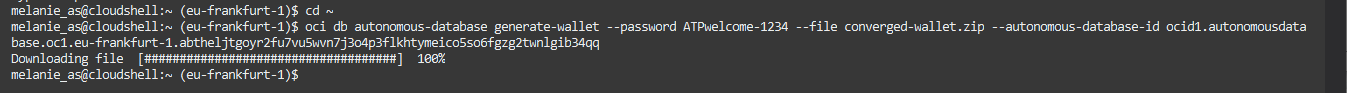
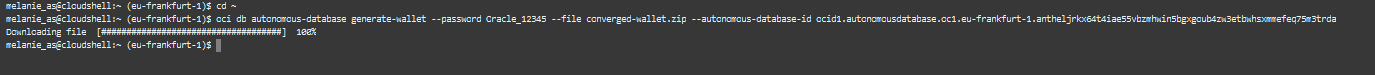
Updated SPATIAL to use new credential and bucket

Changed region(s): [[0.0, 0.0, 1.0, 1.0], [0.0, 0.72, 0.2183, 0.88]]

diff --git a/SPATIAL/spatial.md b/SPATIAL/spatial.md
@@ -33,38 +33,33 @@ We will be using three tables – CUSTOMERS, WAREHOUSES and WAREHOUSES\_DTP.
 
 Each table stores location using Oracle's native spatial data type, SDO\_GEOMETRY. A location can be stored as a point in an SDO\_GEOMETRY column of a table. The customer's location is associated with longitude and latitude values on the Earth's surface—for example, -63.13631, 52.485426.
 
-## STEP 1: Prepare your environment
+**Estimated Lab Time:** 30 minutes
 
-If you have  downloaded the wallet for your database in a previous lab, skip to **Extract the wallet** If you do not have a wallet, follow this process.
+## **STEP 1**: Prepare your environment
+
+If you have  downloaded the wallet for your database into your cloud shell  in a previous lab, skip to **Extract the wallet** If you do not have a wallet, follow this process.
 
 ### Download the Wallet
 
-Navigate to the *Autonomous Database Details* page for your database. 
+1. Navigate to the *Autonomous Database Details* page for your database. 
 
-Select the **Copy** next to the OCID for your database.
-
-![](../common-images/adb-get-ocid.png)
-
-Start Cloud Shell by selecting the icon in the menu bar.
-
-![](../common-images/start-cloud-shell.png)
-
-After a few moments, the cloud shell will open at the bottom of your web browser window.
-
-Use your autonomous\_database\_ocid to create the Oracle Wallet. You will be setting the wallet password to the same value as the ADB admin password for ease of use. This is not a recommended practice and just used for the purposes of this lab. You will give the downloaded file the name 'converged-wallet.zip'.
-
-
+2. Select the **Copy** next to the OCID for your database.
+   ![](../common-images/adb-get-ocid.png)
+3. Start Cloud Shell by selecting the icon in the menu bar.
+   ![](../common-images/start-cloud-shell.png)
+   After a few moments, the cloud shell will open at the bottom of your web browser window.
+4. Replace YOUR-OCID-HERE in the command below with the OCID for your database. You will be setting the wallet password to the same value as the ADB admin password for ease of use. This is not a recommended practice and just used for the purposes of this lab. The wallet will be created with the name `converged-wallet.zip`.
 
 ````
 cd ~
-oci db autonomous-database generate-wallet --password <your admin password> --file converged-wallet.zip --autonomous-database-id <your ocid>
+oci db autonomous-database generate-wallet --password Oracle_12345 --file converged-wallet.zip --autonomous-database-id YOUR-OCID-HERE
 ````
 
-  ![](../common-images/generate-wallet.png)
+![](../common-images/generate-wallet.png)
 
-The wallet file will be downloaded to your cloud shell file system under your home directory.
+	The wallet file will be downloaded to your cloud shell file system under your home directory.
 
-Enter the list command in your cloudshell below to verify the *converged-wallet.zip* was created
+5. Enter the ls (list) command in your cloudshell below to verify the *converged-wallet.zip* was created
 
 ````
 ls
@@ -74,17 +69,18 @@ ls
 
 ### Extract the wallet
 
-Unzip the contents of the wallet file into a directory that  you will call *wallet*. The directory can be created automatically by  the unzip command.
+1. Use the unzip command below to unzip the contents of the wallet file into a directory that  you will call *wallet*. The directory will  be created automatically by  the unzip command.
 
 ````
+cd ~
 unzip -d wallet converged-wallet.zip
 ````
 
 ![](../common-images/unzip-wallet.png)
 
-Next you need to modify the *sqlnet.ora* file located in the wallet directory to include the location of the wallet contents (.e.g the directory holding your tnsnames.ora)
+2. Next you need to modify the *sqlnet.ora* file located in the wallet directory to include the location of the wallet contents (.e.g the directory holding your tnsnames.ora)
 
-If you are unsure of the full directory name and path,  you can cut-and-paste this from the output of the *pwd* operation.
+   If you are unsure of the full directory name and path,  you can cut-and-paste this from the output of the *pwd* operation.
 
 ````
 cd ~/wallet
@@ -93,41 +89,39 @@ pwd
 
 ![](../common-images/wallet-pwd.png)
 
-Edit the contents of the *sqlnet.ora* file
+3. Edit the contents of the *sqlnet.ora* file
 
 ````
 vi sqlnet.ora
 ````
 
-Change the first line in the sqlnet.ora file to use your directory name as it appears in your Oracle Cloud Shell prompt:
+	Change the first line in the sqlnet.ora file to use your directory name as it appears in your Oracle Cloud Shell prompt:
 
 *OLD:* `WALLET_LOCATION = (SOURCE = (METHOD = file) (METHOD_DATA = (DIRECTORY="?/network/admin")))`
 
 *NEW:* `WALLET_LOCATION = (SOURCE = (METHOD = file) (METHOD_DATA = (DIRECTORY="/home/<YOUR USERNAME HERE>/wallet")))`
 
-So in the screenshot example, my wallet directory is `/home/melanie_as/wallet` so my entry is `WALLET_LOCATION = (SOURCE = (METHOD = file) (METHOD_DATA = (DIRECTORY="/home/melanie_as/wallet")))` Use your information to complete this change.
+	So in the screenshot example, my wallet directory is `/home/melanie_as/wallet` so my entry is `WALLET_LOCATION = (SOURCE = (METHOD = file) (METHOD_DATA = (DIRECTORY="/home/melanie_as/wallet")))` Use your information to complete this change.
 
 
 
 ![](../common-images/sqlnet-wallet.png)
 
-Change directory back to your home Directory
+4. Change directory back to your home Directory
 
 ````
 cd ..
 ````
 
-## STEP 2: Load the data
+## **STEP 2**: Load the data
 
 In this step you will load the data for the lab using Oracle Data Pump. 
 
 ### Storing your object store authentication token credentials in the database
 
-To access data in the Object Storage you must enable your database user to authenticate itself with the Object Storage using your object store account and authentication token.
+To access data in the Object Storage you must enable your database user to authenticate itself with the Object Storage using your object store account and authentication token. You do this by creating a private CREDENTIAL object for your user that stores this information encrypted in your Autonomous Database instance. This encrypted connection information is only usable by your user schema. 
 
-You do this by creating a private CREDENTIAL object for your user that stores this information encrypted in your Autonomous Database instance. This encrypted connection information is only usable by your user schema. 
-
-In cloud shell, set the TNS_ADMIN environment variable to your wallet directory. The tilde `~` symbol is a shortcut for your home directory path. 
+1. In cloud shell, set the TNS_ADMIN environment variable to your wallet directory. The tilde `~` symbol is a shortcut for your home directory path. 
 
 ```
 export TNS_ADMIN=~/wallet
@@ -135,33 +129,21 @@ export TNS_ADMIN=~/wallet
 
 ![](../common-images/set-tns-admin.png)
 
-Connect using SQL*Plus command line from your cloud shell prompt
+2. Connect using SQL*Plus command line from your cloud shell prompt, using your admin password instead of YOUR-ADMIN-PASSWORD and your database name instead of YOUR-DB-NAME
 
-```
-sqlplus admin/<your admin password>@<your dbname>_high
-```
+   ```
+   sqlplus admin/YOUR-ADMIN-PASSWORD@YOUR-DB-NAME_high
+   ```
 
+   ![](../common-images/sqlplus-admin.png)
 
+   
 
-Now execute the script to create a credential. Copy and paste the contents of the  script file  [atp_create_credential.sql](../common-source/atp_create_credential.sql). You only need to create the credential once during the lab. If you receive the error `ORA-20022: Credential "ADMIN"."OBJ_STORE_CRED" already exists` then you have already created this credential as part of a previous lab. 
+   3. During the section '*Preparing the Data*' you prepared a `create_credential.sql` file. Copy and paste the contents of this into SQL*PLUS session. You only need to create the credential once per schema during the lab. If you receive the error `ORA-20022: Credential "ADMIN"."LAB_BUCKET_CRED" already exists` then you have already created this credential as part of a previous lab. 
 
-**Do not copy and paste the example script below.**
+![](../common-images/sqlplus-create-cred-admin.png)
 
-```
-set define off
-begin
-DBMS_CLOUD.create_credential(
-credential_name => 'OBJ_STORE_CRED',
-username => 'atp_oss_access',
-password => '<PASSWORD HERE>'
-);
-end;
-/
-```
-
-![](./images/create-cred.png)
-
-Prepare the destination schema for your imported data. In SQL*Plus execute the following commands
+4. Prepare the destination schema for your imported data. In SQL*Plus execute the following commands
 
 ```
 create user appspat identified by OracleLab1234;
@@ -178,71 +160,96 @@ BEGIN
       COMMIT;
     END;
     /
+    
 ```
 
-You have verified that your wallet has been correctly configured by using SQL*Plus and have created a credential to access the object storage bucket. You have prepared the destination schema, granting it the DWROLE, unlimited quota on the data tablespace, and enabled the schema for SQL Developer Web by enabling ORDS.
+5. You have verified that your wallet has been correctly configured by using SQL\*Plus and have created a credential to access the object storage bucket. You have prepared the destination schema, granting it the DWROLE, unlimited quota on the data tablespace, and enabled the schema for SQL Developer Web by enabling ORDS. Now you are ready to load data from Object Store as the admin user.
+6. Quit SQL\*PLUS.
 
-Now you are ready to load data from Object Store as the admin user.
+### Running impdp
 
-Quit SQL*PLUS.
+1. Locate the file URI for your datapump export file. Go to **Menu** > **Storage** > **Object Storage & Archive** > **Buckets**
 
-In Cloud Shell execute the following command to import the data, replacing the password and database name with values from your environment.
+   ![Bucket Menu](../common-images/object-storage-01.png)
+
+   
+   
+2. Click on the name of your lab-bucket 
+   ![Select Lab Bucket](../common-images/select-lab-bucket.png)
+
+3. On the bucket details screen click on the action menu (the 3 dots) next to the file export_spatial22Sep2020.dmp.  Select View Object Details
+   ![get-object-details](images/get-obj-details.png)
+
+4. On the *Object Details* dialog note the value for the **URL Path (URI)**
+   ![](images/obj-details.png)
+
+   
+
+5. In Cloud Shell execute the following command to import the data, replacing the following values:
+
+- YOUR-ADMIN-PASSWORD: replace with the password for your admin account
+
+- YOUR-DB-NAME: replace with your database nam e, and make sure you are connecting to the _high service (e.g. `converged_high`)
+
+- YOUR-FILE-URI: The URI for the dump file stored in your lab bucket as noted in the previous step.
+
+
 
 ```
-impdp admin/<your password>@<your DB>_high \
-credential=obj_store_cred  \
-dumpfile=https://objectstorage.eu-frankfurt-1.oraclecloud.com/n/oractdemeabdmautodb/b/DEMO_DATA/o/export_spatial22Sep2020.dmp \
-directory=data_pump_dir
+impdp admin/YOUR-ADMIN-PASSWORD@YOUR-DB-NAME_high
+credential=lab_bucket_cred  \
+directory=data_pump_dir \
+dumpfile=YOUR-FILE-URI 
 ```
 
 ![](./images/import-command.png)
 
-The import should take less than a minute to run. 2 errors are expected in the output `ORA-31684: Object type USER:"APPSPAT" already exists` and `ORA-39083: Object type ROLE_GRANT failed to create with error: ORA-01924: role 'DBA' not granted or does not exist`
+The import should take less than a minute to run. 
+
+2 errors are expected in the output `ORA-31684: Object type USER:"APPSPAT" already exists` and `ORA-39083: Object type ROLE_GRANT failed to create with error: ORA-01924: role 'DBA' not granted or does not exist`
 
 ![](./images/import-command-results.png)
 
-## STEP 3: Connect to SQL Developer Web
-In the previous step you executed commands to grant the appspat user privileges and setup SQL Developer Web using Rest Services (ORDS). 
+## **STEP 3:** Connect to SQL Developer Web
+In the previous step you executed commands to grant the appspat user privileges and setup SQL Developer Web using Rest Services (ORDS).  You are now going to connect as this new user. 
 
-On your *Database Details* screen select the **Tools ** tab and select **Open Database Actions.**
+1. On your *Database Details* screen select the **Tools ** tab and select **Open Database Actions.**
 
 ![](../common-images/open-dbactions.png)
 
 
 
-Enter the username `appspat` and select **Next.**
+2. Enter the username `appspat` and select **Next.**
 
 ![](./images/login-appspat-01.png)
 
-Enter the password for appspat `OracleLab1234` and sign in.
+3. Enter the password for appspat `OracleLab1234` and sign in.
 
 ![](./images/login-appspat-02.png)
 
-Under the *Development* region of the Database Actions page select the **SQL** tile.
+4. Under the *Development* region of the Database Actions page select the **SQL** tile.
 
 ![](../common-images/start-sqldev-web.png)
 
 
 
-## STEP 4: Examining your Spatial data
+## **STEP 4:** Examining your Spatial data
 
 As part of the dataload you created the tables CUSTOMERS,WAREHOUSES_DTP and WAREHOUSES.
 
 Examine one of these tables using SQL Developer Web.
 
-Select the *Customers* table in the list of tables, and right click, and select **Edit**
+1. Select the *Customers* table in the list of tables, and right click, and select **Edit**
 
 ![](./images/examine-01.png)
 
-This opens the *Table Properties* window.
-
-You can see that the customer table has a column CUST_GEO_LOCATION which is of the special SDO_GEOMETRY data type to store the spatial data.
+2. This opens the *Table Properties* window. You can see that the customer table has a column CUST_GEO_LOCATION which is of the special SDO_GEOMETRY data type to store the spatial data.
 
 ![](./images/examine-02.png)
 
 
 
-Before the spatial index was created in the original data load, entries were inserted into the USER_SDO_GEOM_METADATA view to provide information about  dimensions associated with the data.
+3. Before the spatial index was created in the original data load, entries were inserted into the USER_SDO_GEOM_METADATA view to provide information about  dimensions associated with the data, for example.
 
 `insert into user_sdo_geom_metadata
 (TABLE_NAME,
@@ -264,19 +271,15 @@ MDSYS.SDO_DIM_ARRAY(MDSYS.SDO_DIM_ELEMENT('X', -180, 180, 0.05),
 
 
 
-
-Select the *Indexes* item in the sidebar.
-
-You can see that there has been an index created called  *CUSTOMERS_SIDX* .This index is on the CUSTOMER_SDO column. 
+4. Select the *Indexes* item in the sidebar. You can see that there has been an index created called  *CUSTOMERS_SIDX* .This index is on the CUSTOMER_SDO column.  This type of index on spatial data was created using a command similar to `CREATE INDEX customers_sidx ON customers(CUST_GEO_LOCATION) indextype is mdsys.spatial_index;`
 
 ![](./images/examine-03.png)
 
-This type of index on spatial data was created using a command similar to `CREATE INDEX customers_sidx ON customers(CUST_GEO_LOCATION) indextype is mdsys.spatial_index;`
 
 
-Select **Close** to leave table properties without making any changes.
+5. Select **Close** to leave table properties without making any changes.
 
-## **STEP 5**: Run Spatial Queries
+## **STEP 5:** Run Spatial Queries
 
 #### Query #1: Find the five customers closest to the warehouse whose warehouse name  is 'Ferndale Facility'
 
